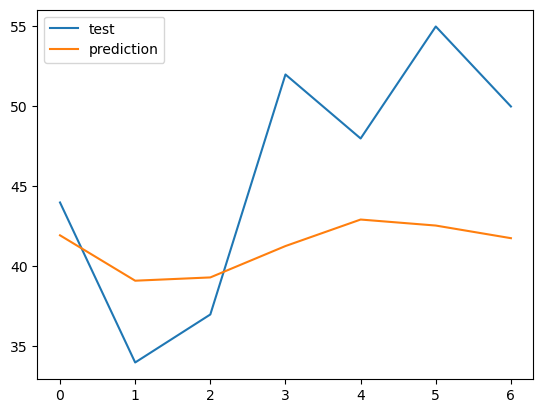
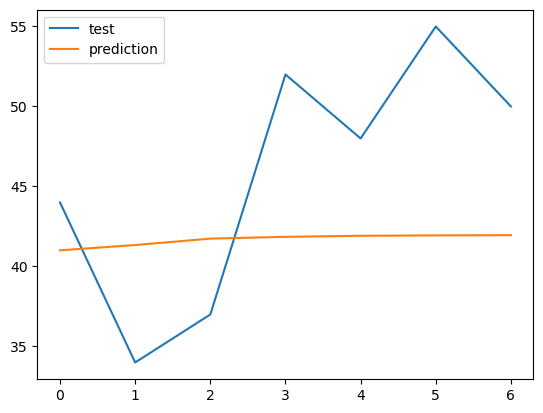
push book

diff --git a/docs/arima.html b/docs/arima.html
@@ -236,7 +236,7 @@ y_t = c + \sum^{p}_{1}\phi y_{t-i} + \epsilon_t
 <span id="cb20-14"><a href="arima.html#cb20-14" tabindex="-1"></a>AR_model <span class="op">=</span> AutoReg(train, lags<span class="op">=</span><span class="dv">2</span>)</span>
 <span id="cb20-15"><a href="arima.html#cb20-15" tabindex="-1"></a>AR_results <span class="op">=</span> AR_model.fit()</span>
 <span id="cb20-16"><a href="arima.html#cb20-16" tabindex="-1"></a><span class="co"># Dự đoán kết quả mô hình</span></span>
-<span id="cb20-17"><a href="arima.html#cb20-17" tabindex="-1"></a>Y_hat <span class="op">=</span> AR_results.predict(start<span class="op">=</span><span class="bu">len</span>(train), end<span class="op">=</span><span class="bu">len</span>(train)<span class="op">+</span><span class="bu">len</span>(test)<span class="op">-</span><span class="dv">1</span>, dynamic<span class="op">=</span><span class="va">False</span>)</span>
+<span id="cb20-17"><a href="arima.html#cb20-17" tabindex="-1"></a>Y_hat <span class="op">=</span> AR_results.forecast(<span class="dv">7</span>)</span>
 <span id="cb20-18"><a href="arima.html#cb20-18" tabindex="-1"></a><span class="cf">for</span> y_hat, y_true <span class="kw">in</span> <span class="bu">zip</span>(Y_hat, test):</span>
 <span id="cb20-19"><a href="arima.html#cb20-19" tabindex="-1"></a>    <span class="bu">print</span>(<span class="ss">f&#39;Predicted=</span><span class="sc">{</span>y_hat<span class="sc">}</span><span class="ss"> </span><span class="ch">\t</span><span class="ss">Expected=</span><span class="sc">{</span>y_true<span class="sc">}</span><span class="ss">&#39;</span>)</span></code></pre></div>
 <div class="sourceCode" id="cb21"><pre class="sourceCode python"><code class="sourceCode python"><span id="cb21-1"><a href="arima.html#cb21-1" tabindex="-1"></a>Predicted<span class="op">=</span><span class="fl">41.009982996211406</span>    Expected<span class="op">=</span><span class="dv">44</span></span>
